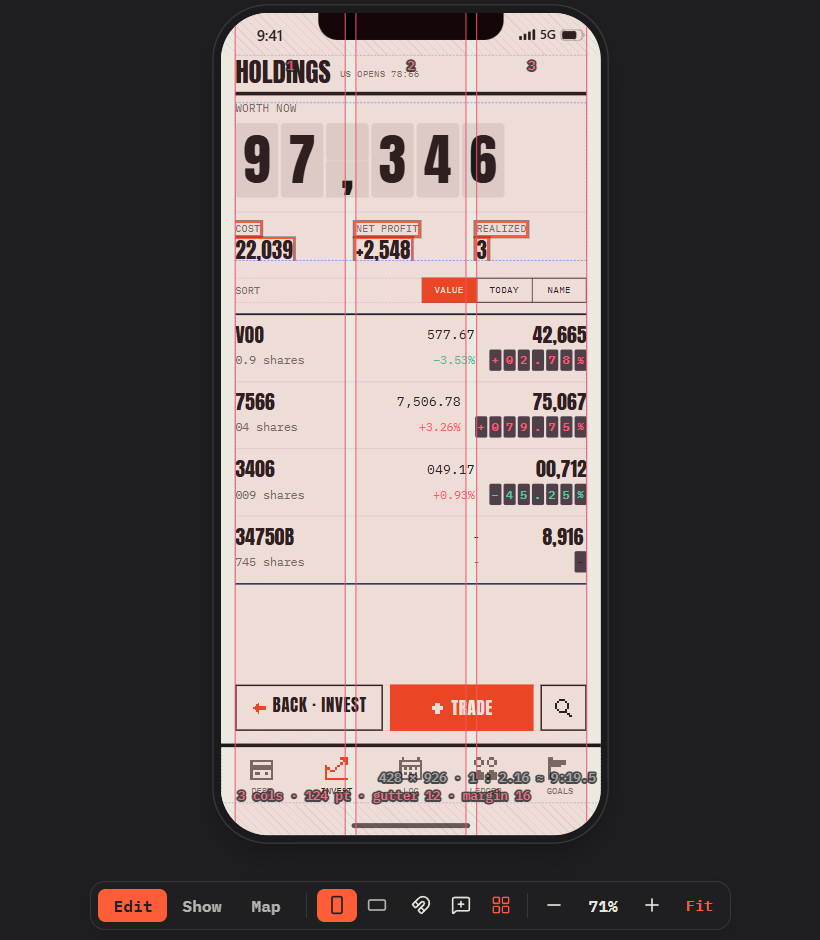
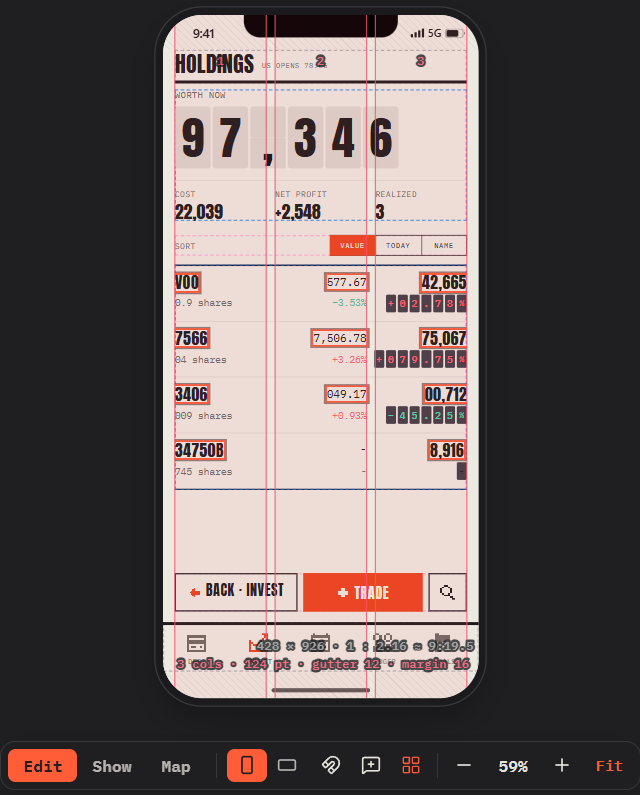
docs: a guide for agents, the README's File format redrawn, the overlay shot on the list, an arrow in the agent shot

diff --git a/README.md b/README.md
@@ -76,7 +76,7 @@ Colours, fonts and icons come from your Obsidian theme, so a plugin's mockup alr
 
 <table>
   <tr>
-    <td width="50%" align="center"><img src="assets/overlay.png" alt="Three columns over the Holdings screen; COST, NET PROFIT, REALIZED and their numbers are chosen, each starting on a column edge"><br><sub><b>Overlays</b>: three columns; the chosen labels and numbers each start on a column edge</sub></td>
+    <td width="50%" align="center"><img src="assets/overlay.png" alt="Three columns over the Holdings screen; the list's names start on column 1, its prices end on column 2, its values end on the right margin"><br><sub><b>Overlays</b>: three columns; the list's names, prices and values line up with them</sub></td>
     <td width="50%" align="center"><img src="assets/show.png" alt="Show: the Holdings screen as a preview, the way here above it and arrows to the next screen beside it"><br><sub><b>Show</b>: the screen as a preview, the way here above, the next screen beside</sub></td>
   </tr>
 </table>
@@ -130,12 +130,12 @@ One screen is one small file. The agent reads exactly where each thing is, and c
   </tr>
 </table>
 
+Start your agent with this; the [guide for agents](docs/for-agents.md) tells it what Vellum can do:
+
 ```text
-Read github.com/zelvet-velvet/vellum's README for the file format.
-Write each page of my app as a Vellum screen in Design/Screens, one JSON file per screen.
-Use real text, pictures by https address and icons by Lucide name. Keep ids stable.
-Draw a card's background or outline with the block's own fill / stroke, and a chip or tile with the text's own box,
-not with rectangles under them.
+Read github.com/zelvet-velvet/vellum/blob/main/docs/for-agents.md.
+Write each page of my app as a Vellum screen in Design/Screens, then tell me the folder.
+When I ask for options, make them as Vellum mocks, not as a web page.
 ```
 
 > [!TIP]
@@ -147,27 +147,28 @@ not with rectangles under them.
 
 ## <img src="assets/icons/braces.svg" width="24" height="24" alt=""> File format
 
-```mermaid
-flowchart LR
-  D["Doc<br/>device, safe areas"] --> P["Page<br/>one screen"]
-  P --> B["Block<br/>x, y, w, h, kind"]
-  B --> I["Item<br/>text · rect · ellipse · line<br/>img · icon · row · col"]
-  P -. "inherit: true" .-> F["Parent page<br/>used as its frame"]
+One folder per app, one small file per screen:
+
+```text
+Design/Screens/
+├─ _doc.json       the phone: device, safe areas, corner, status bar; the screen order
+├─ Home.json       a screen
+└─ Settings.json   another screen
 ```
 
-A folder holds one JSON file per screen, plus `_doc.json` for the device and the screen order. Show it in a note with:
+A screen is a few **blocks**, boxes on the phone. Each block holds **items**, placed by an anchor:
 
-````markdown
-```vellum
-src: Design/Screens
-```
-````
-
-```json
+```jsonc
 {"id": "home", "name": "Home", "blocks": [
-  {"id": "b1", "name": "Title", "kind": "nav", "x": 16, "y": 70, "w": 370, "h": 44, "items": [
-    {"id": "t1", "type": "text", "v": "HOME", "font": "display", "size": 32, "g": "l"}]}]}
+  {"id": "title", "name": "Title", "kind": "nav", "x": 16, "y": 70, "w": 396, "h": 44,    // a box, in points
+   "items": [
+     {"id": "t1", "type": "text", "v": "HOME", "font": "display", "size": 32, "g": "l"},  // left, centred down
+     {"id": "i1", "type": "icon", "name": "settings", "g": "r"}                          // right: a Lucide icon
+   ]}
+]}
 ```
+
+Show the screens in a note with a code block `vellum` holding `src: Design/Screens`. Every field is below; agents have [their own guide](docs/for-agents.md).
 
 <details>
 <summary><b>Field reference</b></summary>

diff --git a/docs/for-agents.md b/docs/for-agents.md
@@ -1,0 +1,50 @@
+# Vellum: a guide for coding agents
+
+You are helping someone design an app's screens with **Vellum**, an Obsidian plugin. The screens are JSON files in their
+vault; they edit them on a phone frame in Obsidian, you read and write the same files. Field by field, the format is in
+the [README's File format](../README.md#-file-format).
+
+## 1. Set up the folder
+- One folder per app, e.g. `Design/Screens/`: one JSON file per screen, and `_doc.json` with the device and screen order.
+- **Tell the user where it is.** Vellum's ribbon button opens the folder in **Settings → Vellum → Screens folder**; if that
+  folder has no screens, Vellum offers the folders that do. The command **Vellum: Open screens from another folder** picks one.
+- To show the screens in a note, add a code block `vellum` with the line `src: Design/Screens`.
+
+## 2. When the user wants options: mocks, not an artifact
+For "show me a few ways this could look", make the options **in Vellum**, not as an HTML page or image: they land on the
+phone frame, next to the real screens, in the same format you will build from.
+- Write two or three sub screens: `"parent": "<the screen's id>"`, `"mock": true`, names like `Home · option A`.
+- Each is a whole screen. The user compares them in the editor and the **Map**, keeps one, and you delete the rest.
+
+## 3. What a screen can hold
+| Want | Use |
+| :--- | :--- |
+| A card, a bar, a list | A **block**: a box at `x y w h` (points) with a `kind` and its own look: `fill stroke sw r`, `sides` |
+| Words, numbers, a chip or button | A `text` item; its own box (`fill stroke r pad`) makes a chip, tile or button |
+| Shapes and dividers | `rect`, `ellipse`, `line` |
+| Icons | `icon` with a [Lucide](https://lucide.dev/icons) name (`"name": "wallet"`); or an emoji in a `text` |
+| Pictures | `img` with `src`: an `https://` address or a vault path; `fit`, `r` |
+| Things in a row or column | `row` / `col` with `gap pad main cross` (spacing done for you) |
+| Several items moved as one | `group` |
+| The same header on many screens | A frame: the parent screen's blocks, `"inherit": true` on the child |
+| How you get to a screen | `parent` and `link` (e.g. `"tap a row"`): the Map and Show draw it |
+| The phone | `_doc.json`: `device`, `safe` areas, `radius` (0: square), `bar` (iOS, Android, none) |
+| Landscape | `land`: the landscape layout of the same screen |
+
+Items sit in their block by an anchor `g` (`tl t tr l c r bl b br`) and an inward offset `dx dy`; sizes are a number,
+`"hug"` or `"fill"`. Colours are theme names (`paper text dim line tile loud accent`) so the screen follows the user's
+theme; fonts are `ui display mono`.
+
+## 4. Talking to the user
+- **References**: the user may paste `[Design/Screens/Home.json › Card (card-1)]`: the file, the block (and item) they
+  mean. Change only that.
+- **Marks** are notes on the screen, never part of the design: read the user's (`marks` on a page), and answer with your
+  own, `"by": "agent"`: a `note` pinned at `x y`, an `area` (`w h`), a guide `line`.
+- A page's `note` says what the screen is for. Keep it current.
+
+## 5. Rules
+- Keep `id`s stable: the user's references and marks point at them.
+- Frames are a block's own look or a text's own box, not a `rect` drawn underneath.
+- Keep each file's layout: the screen's own fields on the first line, then one block per line.
+- A block wholly outside the screen is a **draft** the user parked there: leave it, don't build it.
+- The user may have the editor open. Write the files; Vellum reloads them and never overwrites unsaved edits.

diff --git a/README.zh-TW.md b/README.zh-TW.md
@@ -76,7 +76,7 @@
 
 <table>
   <tr>
-    <td width="50%" align="center"><img src="assets/overlay.png" alt="Holdings 畫面上疊著三欄格線；已選取 COST、NET PROFIT、REALIZED 與其數字，皆對齊欄位邊緣"><br><sub><b>輔助線</b>：三欄格線，選取的標籤與數字皆對齊欄位邊緣</sub></td>
+    <td width="50%" align="center"><img src="assets/overlay.png" alt="Holdings 畫面上疊著三欄格線；列表的名稱對齊第一欄，價格對齊第二欄右緣，金額對齊右側邊距"><br><sub><b>輔助線</b>：三欄格線，列表的名稱、價格與金額皆對齊欄位</sub></td>
     <td width="50%" align="center"><img src="assets/show.png" alt="Show 模式：Holdings 畫面的預覽，上方是進入的路徑，兩側是切換畫面的箭頭"><br><sub><b>Show</b>：預覽畫面，上方是進入的路徑，兩側切換畫面</sub></td>
   </tr>
 </table>
@@ -132,12 +132,12 @@
 
 給 agent 的指示範例：
 
+以下列內容開始；[給 agent 的說明](docs/for-agents.md)列出 Vellum 支援的功能：
+
 ```text
-依據 github.com/zelvet-velvet/vellum 的 README 確認檔案格式。
-將 app 的每一頁寫為 Vellum 畫面，存於 Design/Screens，一個畫面一個 JSON 檔。
-文字使用實際內容，圖片使用 https 網址，圖示使用 Lucide 名稱，id 保持不變。
-卡片底色與外框使用區塊本身的 fill / stroke，標籤與磚塊使用文字本身的外框，
-不在下方另外疊加矩形。
+Read github.com/zelvet-velvet/vellum/blob/main/docs/for-agents.md.
+將 app 的每一頁寫為 Vellum 畫面，存於 Design/Screens，完成後告訴我資料夾位置。
+需要多個方案時，以 Vellum 的 mock 製作，不要做成網頁。
 ```
 
 > [!TIP]
@@ -149,27 +149,28 @@
 
 ## <img src="assets/icons/braces.svg" width="24" height="24" alt=""> 檔案格式
 
-```mermaid
-flowchart LR
-  D["Doc<br/>機型、安全區域"] --> P["Page<br/>一個畫面"]
-  P --> B["Block<br/>x, y, w, h, kind"]
-  B --> I["Item<br/>text · rect · ellipse · line<br/>img · icon · row · col"]
-  P -. "inherit: true" .-> F["上層畫面<br/>作為版型"]
+每個 app 一個資料夾，每個畫面一個小檔案：
+
+```text
+Design/Screens/
+├─ _doc.json       手機：機型、安全區域、圓角、狀態列；畫面順序
+├─ Home.json       一個畫面
+└─ Settings.json   另一個畫面
 ```
 
-一個資料夾內每個畫面一個 JSON 檔，另以 `_doc.json` 記錄機型與畫面順序。於筆記中顯示：
+畫面由數個 **block** 組成，即手機上的方框。每個 block 內放 **item**，依錨點定位：
 
-````markdown
-```vellum
-src: Design/Screens
-```
-````
-
-```json
+```jsonc
 {"id": "home", "name": "Home", "blocks": [
-  {"id": "b1", "name": "Title", "kind": "nav", "x": 16, "y": 70, "w": 370, "h": 44, "items": [
-    {"id": "t1", "type": "text", "v": "HOME", "font": "display", "size": 32, "g": "l"}]}]}
+  {"id": "title", "name": "Title", "kind": "nav", "x": 16, "y": 70, "w": 396, "h": 44,    // 方框，單位為 pt
+   "items": [
+     {"id": "t1", "type": "text", "v": "HOME", "font": "display", "size": 32, "g": "l"},  // 靠左、垂直置中
+     {"id": "i1", "type": "icon", "name": "settings", "g": "r"}                          // 靠右：Lucide 圖示
+   ]}
+]}
 ```
+
+於筆記中以 `vellum` 程式碼區塊加上 `src: Design/Screens` 顯示畫面。所有欄位列於下方；agent 另有[專用說明](docs/for-agents.md)。
 
 <details>
 <summary><b>欄位說明</b></summary>

diff --git a/.claude/skills/vl-readme-shots/SKILL.md b/.claude/skills/vl-readme-shots/SKILL.md
@@ -24,12 +24,13 @@ All dark Obsidian theme, light screens. Images in `assets/`, the same file names
 | File | What it shows | How |
 | :--- | :--- | :--- |
 | `editor.png` | The whole editor: screens list with **Corner, bar, safe areas** open under Device, the phone, a chosen block's panel | Holdings, Edit, no overlays, choose the holdings list block; full-window shot |
-| `overlay.png` | An overlay **in use**: things lining up with it | Holdings; Overlays → Columns: 3, margin 16, gutter 12 (COST / NET PROFIT / REALIZED start at 16 / 152 / 288). Choose NET PROFIT (click its block, then it), Shift+click +2,548, REALIZED, 3, COST, 22,039. Clip around phone and toolbar |
+| `overlay.png` | An overlay **in use**, on the big list in the middle (what readers see first) | Holdings; Overlays → Columns: 3, margin 16, gutter 12. The list's prices don't quite sit on column 2, so for the shot: copy `Holdings.json` to the scratchpad, set the list block's price and % texts (`g` `tl`, `dx` 150–290, no `fill`) to `"g": "tr", "dx": 136`, take the shot, copy the backup back and check its `md5sum`. Choose the names, prices and values (click VOO twice, Shift+click the rest, **one click per `cdp.mjs` run**). Clip round phone and toolbar |
 | `show.png` | Show: the way here above, arrows beside | Holdings in Show; **the same clip size as `overlay.png`** |
 | `map.png` | Every screen as a tree | Map view, full window |
 | `agent.png` | A terminal conversation above the editor | Below |
 
-Shift+click: `{"drag":[x,y,x,y,8]}` (modifier 8 = Shift). Hash the screen file first (`md5sum`) and check it after: a
+Shift+click: `{"drag":[x,y,x,y,8]}` (modifier 8 = Shift). A long step list can hang mid-drag and leave the mouse held:
+send `{"release":[x,y]}` and check the file. Hash the screen file first (`md5sum`) and check it after: a
 click that lands on a chosen item can nudge it. If the editor shows **Save**, press undo until it shows **Saved**.
 
 ## The agent demo
@@ -44,6 +45,8 @@ Short and easy to read beats real-and-messy: a real session prints whole JSON fi
    Claude Code's screen; the setup scrolls off instead. Capture it with `scripts/shots/capture-window.ps1`.
 6. The screen file must already show the result the reply describes (make the change by hand if needed).
 7. Capture the stage and panel with Sort chosen, stack the two with `scripts/shots/stack.ps1`.
+8. Point from the pasted reference to the block with `scripts/shots/arrow.ps1`: a box round each, an arrow routed
+   through empty space (down the gap between phone and panel), labelled "the block you copied". Never across text.
 
 The caption says what the reader does (Copy reference, then what to change), not that the session was unscripted.
 
